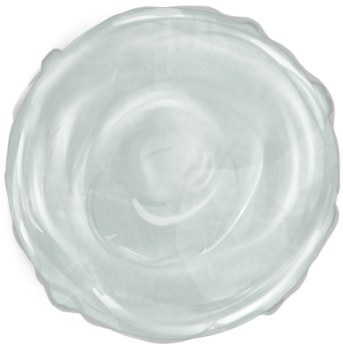
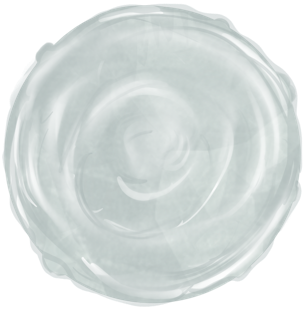
s

diff --git a/music_Wasteland.js b/music_Wasteland.js
@@ -69,14 +69,15 @@ if (firstRun) {
 
 
 // Vocal moon
-let moonYStart = 700;
-let moonX = width/2
+let moonYStart = 720;
+let moonX = width/2-140
 let moonYEnd = 100;
 
 let whenSingingStart = 25.5;
 
 let moonYMap= map(song.currentTime(), whenSingingStart ,song.duration(), moonYStart, moonYEnd);
-let moonScale= map (vocal,0,100,0,1.5)
+let moonScale= map (vocal,0,100,1,1.2)
+
 
 if (song.currentTime() < whenSingingStart) {
   strokeWeight (0)
@@ -84,13 +85,21 @@ if (song.currentTime() < whenSingingStart) {
   image(moonImg,moonX,moonYStart)
   pop()   
     } else {
-
+  strokeWeight(0)
+  fill (255,255,255,50)
+  ellipse (width/2+10,moonYMap+160,300*moonScale,300*moonScale)
+  ellipse (width/2+10,moonYMap+160,350*moonScale,350*moonScale)
+      
   push()
   image(moonImg,moonX,moonYMap)
   pop() 
 
+  
+
     }
-    
+
+  
+ 
   
 // if (song.currentTime() < whenSingingStart) {
 // strokeWeight (0)
@@ -106,14 +115,14 @@ if (song.currentTime() < whenSingingStart) {
 //gardenbase
 push()
 scale (0.5)
-image(gardenbaseImg,0,-15)
+image(gardenbaseImg,0,0)
 pop()    
 
 //mushroom
 let mushroomJump = map(bass,0,100,0,40)
 push()
 scale (0.5)
-image(mushroomImg,1,0-mushroomJump)
+image(mushroomImg,1,10-mushroomJump)
 pop()    
 
 //Fern 4
@@ -126,7 +135,7 @@ pop()
 let grassJump = map (other, 0,100,0,40)
 push()
 scale (0.5)
-image(grassImg,0,0-grassJump)
+image(grassImg,0,30-grassJump)
 pop() 
 
 //Fern 3
@@ -163,6 +172,9 @@ let firefly2_y = 4200
 
 let firefly3_x = 5900
 let firefly3_y = 3800
+
+let firefly4_x = 200
+let firefly4_y = 2400
 
 let glowsize = 20
 let outerglowsize = 120
@@ -212,6 +224,19 @@ push()
 scale (0.15)
 image(glowTopImg,firefly3_x,firefly3_y)
 pop()  
+
+//Firefly 4
+
+fill (fireflyfill) //light
+ellipse (firefly4_x*0.15+RIGHTx_adjustment,firefly4_y*0.15+RIGHTy_adjustment,fireflyMap+2,fireflyMap+2)
+
+fill (255, 179, 87,50) //Glow
+ellipse (firefly4_x*0.15+RIGHTx_adjustment,firefly4_y*0.15+RIGHTy_adjustment,outerfireflyMap,outerfireflyMap)
+  
+push()
+scale (0.15)
+image(glowRightImg,firefly4_x,firefly4_y)
+pop() 
 
 
 // let glowArray = [color(),color(),color(),color()] //create a firefly glow glow, want the alpha value to change
